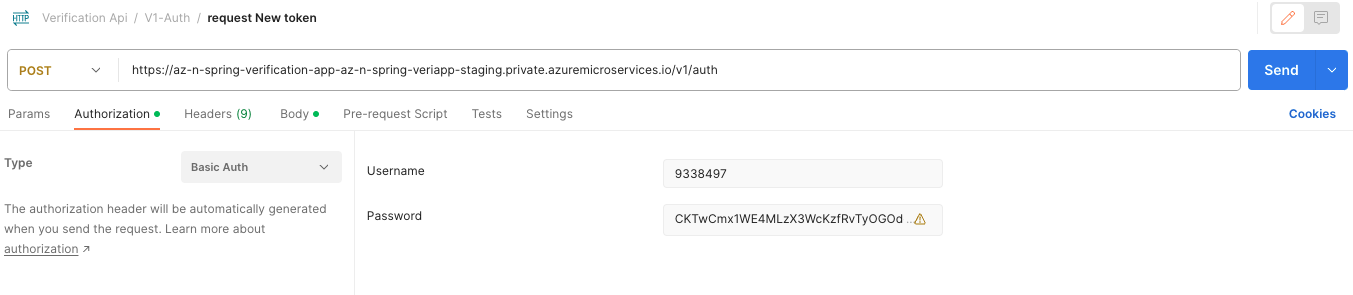
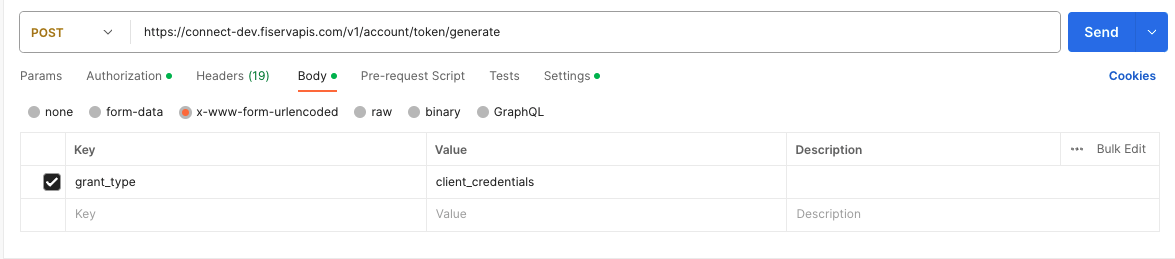
updatedImaged

diff --git a/docs/getting-started.md b/docs/getting-started.md
@@ -59,7 +59,7 @@ Use the API mentioned below to generate an access token using Postman.
 
 ### URL
 
-``POST https://az-n-spring-verification-app-az-n-spring-veriapp-staging.private.azuremicroservices.io/v1/auth ``
+``POST https://connect-dev.fiservapis.com/v1/account/token/generate ``
 
 
 ### Headers
@@ -98,7 +98,7 @@ From the Body tab, select the **x-www-form-urlencoded** radio button and enter t
 
 
 <kbd>
-    <img src="https://github.com/Fiserv/data-commerce-solutions/raw/c2f6a483e42535b897fdb983d3ee26c551214b2d/assets/images/Auth-api.gif" />
+    <img src="https://github.com/Fiserv/data-commerce-solutions/raw/develop/assets/images/Auth-api.gif" />
 </kbd>
 
 <!-- type: tab -->
